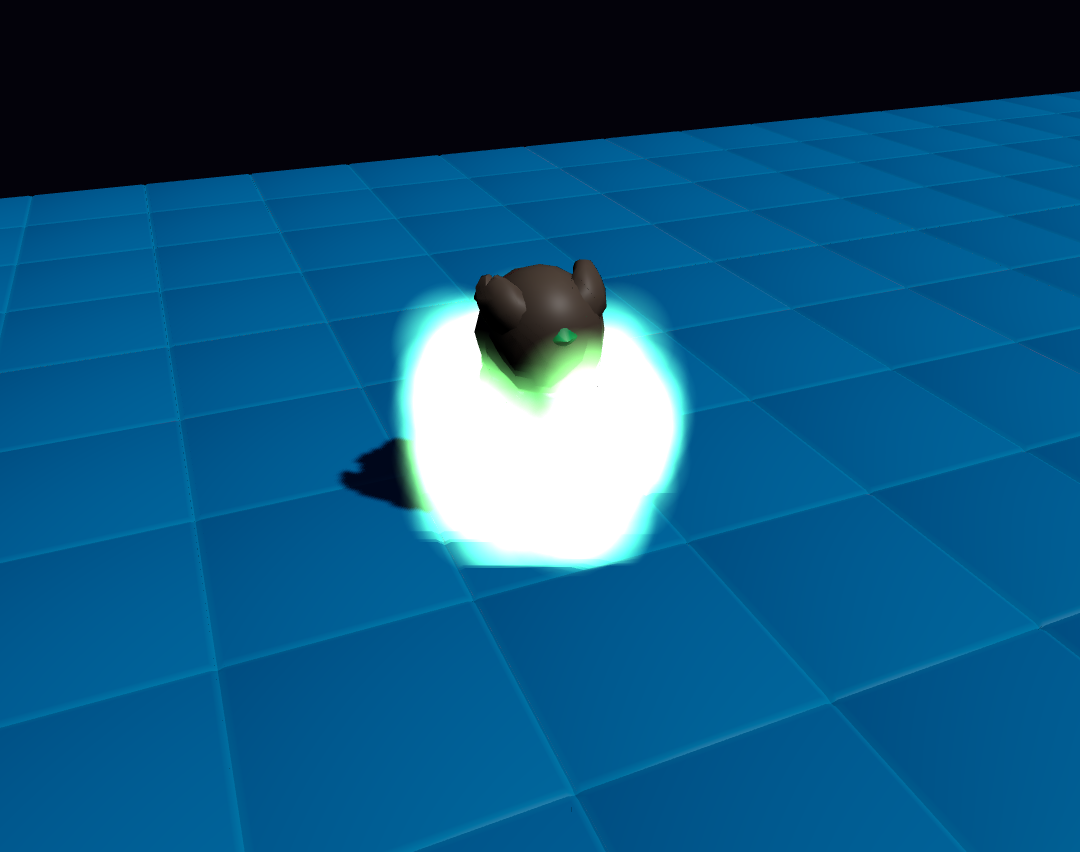
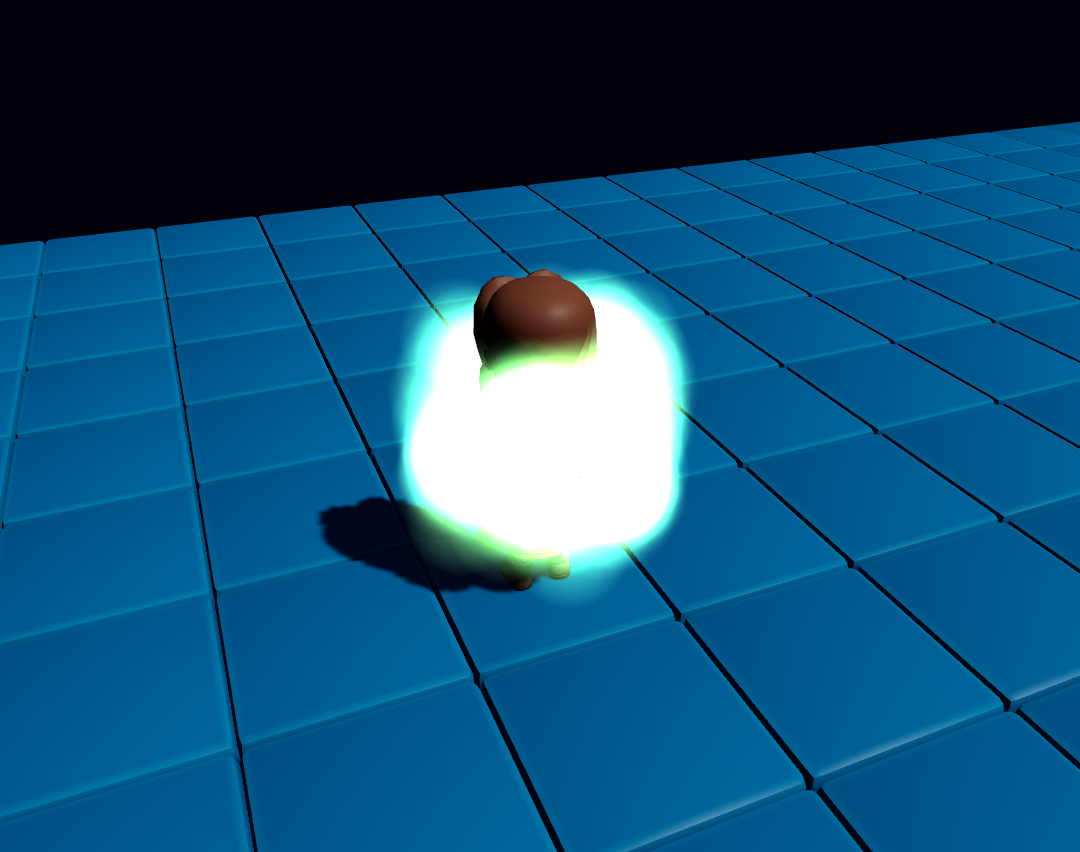
fix(renderer): character stands on cube tops (drop SEAM_OVERLAP + lift mesh)
Two stacked offsets were burying the character inside the cubes:

1. `SEAM_OVERLAP = 1.05` on the visual InstancedMesh scale in
   ObjectInstances. Inflated each cube 5% to hide bevel grooves
   between neighbours but pushed the visual top 0.05 m above the
   physics collider top. The controller resolved feet onto the
   collider; visually the cube stuck up past the feet.

2. The body's BallCollider sits at local y=BODY_Y (0.9) with
   radius=charRadius (0.4), so its bottom is at root.y+0.5 — but
   the visible character mesh group was at local y=0 (origin =
   feet). When the controller rested the ball on a cube top (y=2),
   root.y went to 1.5 and the visible feet rendered at 1.5,
   half a metre below the cube surface.

Fix: drop SEAM_OVERLAP (visible seams are a fair trade for an
aligned standing surface — the bevels still hide them at most
viewing angles), and offset the mesh group up by `BODY_Y -
charRadius` so the visible feet sit at the ball's bottom for every
player.

diff --git a/packages/world/src/renderer/ObjectInstances.tsx b/packages/world/src/renderer/ObjectInstances.tsx
@@ -137,12 +137,6 @@ interface KindInstanceGroupProps {
   cubeSize: number;
 }
 
-// KayKit BlockBits cubes have beveled corners — a slight overlap hides
-// the seams between adjacent instances. Kept as a per-renderer constant
-// so the catalog-side `kind.scale` stays a clean "1 = no change"
-// semantic.
-const SEAM_OVERLAP = 1.05;
-
 function KindInstanceGroup({ kind, instances, cubeSize }: KindInstanceGroupProps) {
   const gltf = useGLTF(kind.gltfPath);
   const geom = useMemo(() => extractGeometryFromGltf(gltf.scene), [gltf.scene]);
@@ -176,7 +170,15 @@ function KindInstanceGroup({ kind, instances, cubeSize }: KindInstanceGroupProps
     const m = new THREE.Matrix4();
     const pos = new THREE.Vector3();
     const quat = new THREE.Quaternion();
-    const s = SEAM_OVERLAP * kind.scale;
+    // Scale is exactly `kind.scale` — no seam-overlap fudge. The
+    // previous SEAM_OVERLAP=1.05 inflated each instance 5 % to hide
+    // groove lines between bevelled-edge KayKit blocks; but the
+    // visual top of a cube ended up 0.05 m higher than its physics
+    // collider (in <MapColliders>), so the character's feet rested
+    // on the collider top while visually appearing to sink slightly
+    // into the cube. Visual seams are an acceptable trade for a
+    // correctly aligned standing surface.
+    const s = kind.scale;
     const scale = new THREE.Vector3(s, s, s);
     for (let i = 0; i < instances.length; i++) {
       const inst = instances[i];

diff --git a/packages/world/src/renderer/Players.tsx b/packages/world/src/renderer/Players.tsx
@@ -468,7 +468,16 @@ export function Players({
                 if (c) tagByHandle.current.set(c.handle, outerTag);
               }}
             />
+            {/* Lift the visible character so its feet (model origin)
+                align with the body ball's bottom. The ball is at
+                local y=BODY_Y with radius=charRadius, so its bottom
+                is at local y=(BODY_Y - charRadius). Without this
+                offset the character renders with `root.y` at its
+                feet, but the controller resolves contacts at the
+                ball's bottom — the character would visually sink
+                ~0.5 m into whatever it's standing on. */}
             <group
+              position={[0, BODY_Y - charRadius, 0]}
               ref={(g: THREE.Group | null) => {
                 if (g) groupRefs.current.set(p.id, g);
                 else groupRefs.current.delete(p.id);
